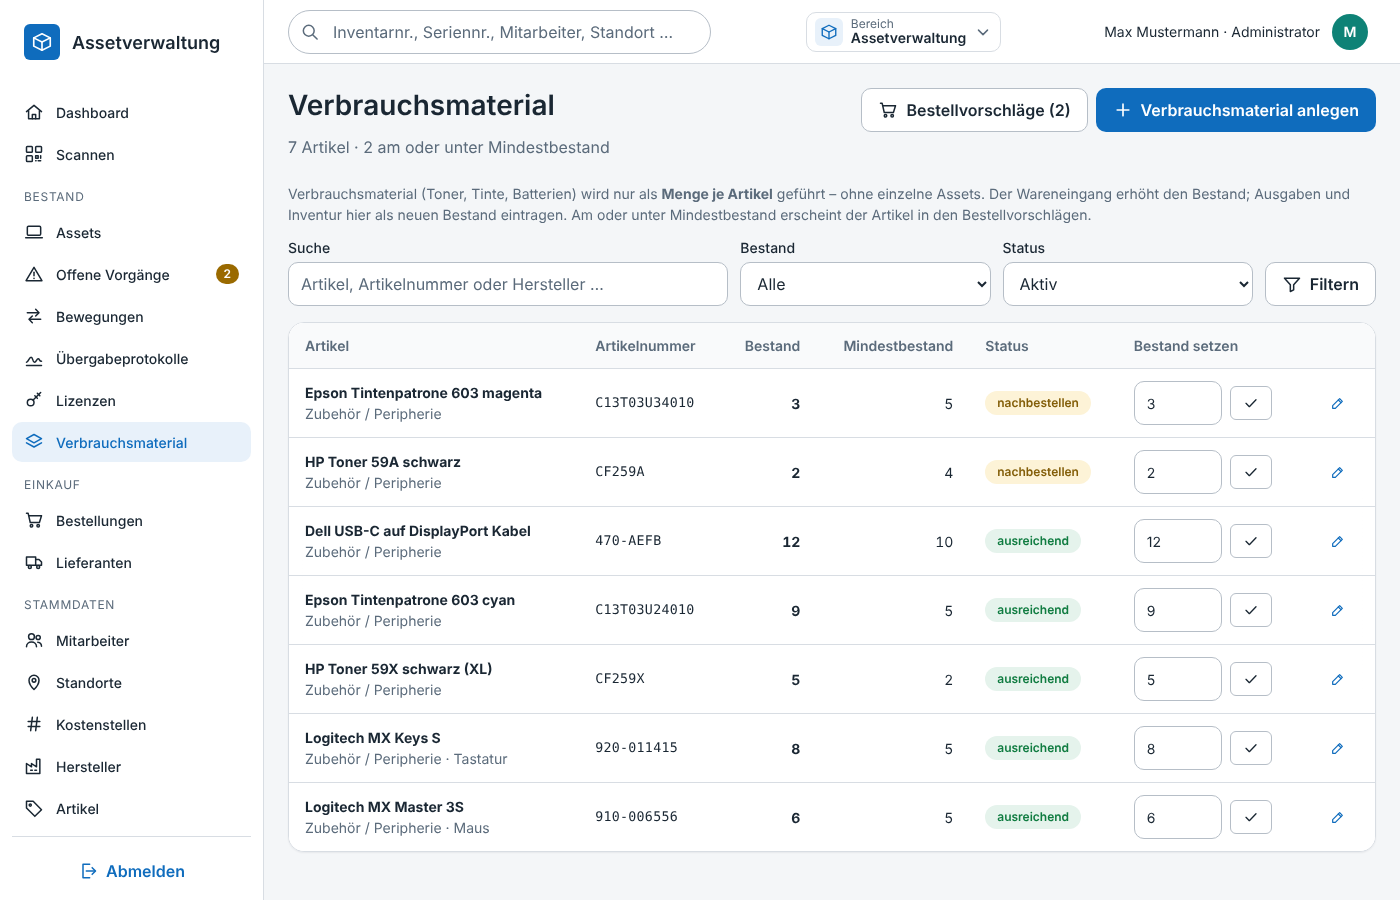
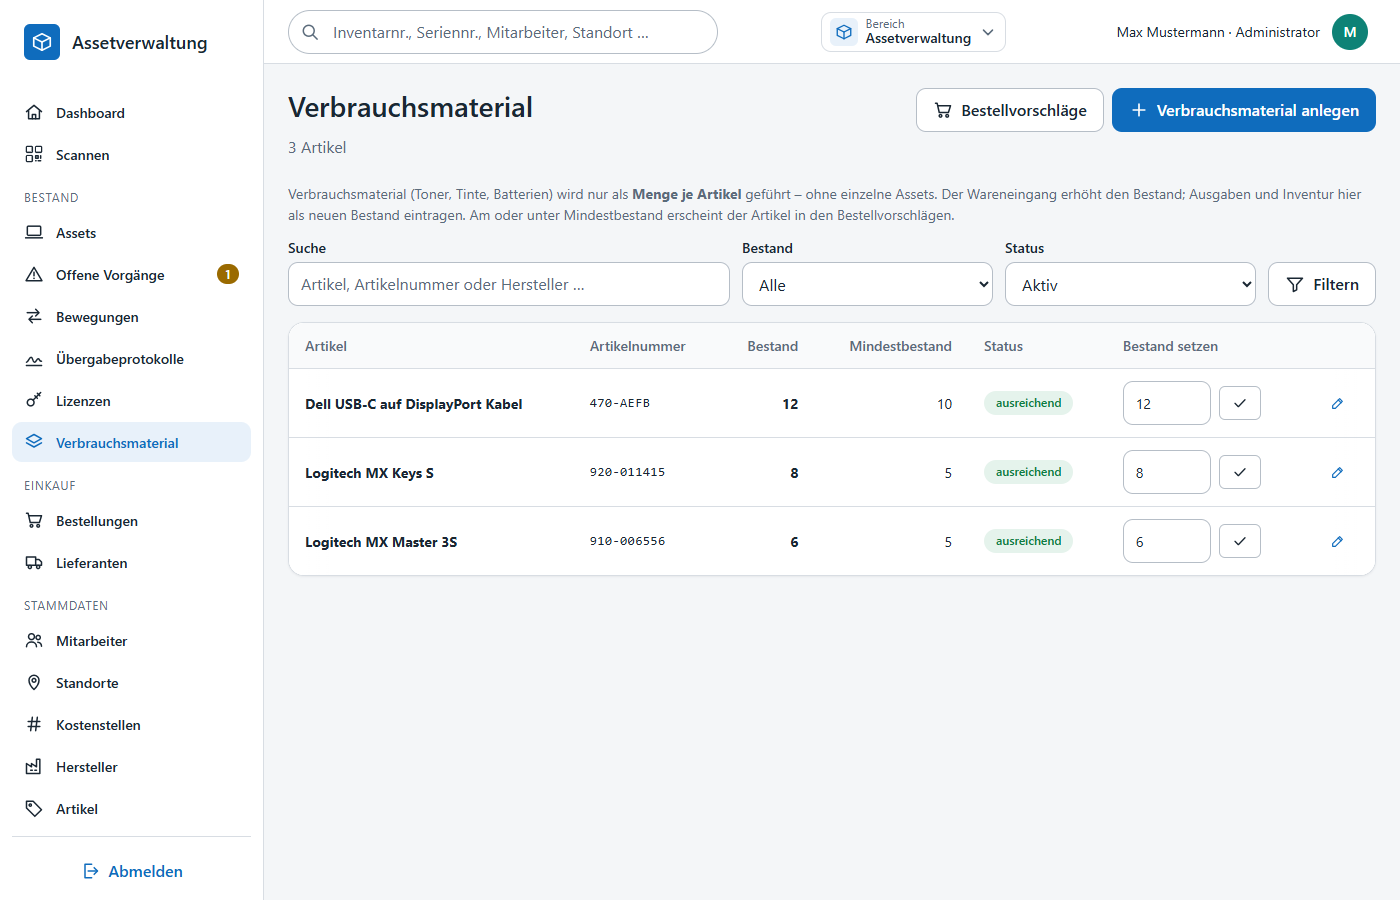
Verbrauchsmaterial: Assettyp und Kategorie optional
Verbrauchsmaterial hat keinen Assettyp (PC/NET/...). Bisher musste beim Anlegen
dennoch einer gewaehlt werden; das Feld war nicht abschaltbar.

- Migration 049: articles.asset_type_id wird NULL-faehig, bestehende
  Verbrauchsartikel werden von Typ und Kategorie bereinigt.
- ArticleService::validate prueft den Typ nur noch fuer Nicht-Verbrauchsmaterial
  und verwirft Typ/Kategorie bei is_consumable = 1; Artikel-Repository nutzt
  LEFT JOIN und liefert im Asset-Picker nur noch Nicht-Verbrauchsmaterial.
- Formular deaktiviert Assettyp und Kategorie inklusive required-Markierung,
  sobald "Verbrauchsmaterial" gesetzt ist oder das Formular ueber
  /articles/new?is_consumable=1 geoeffnet wurde (public/js/article-form.js).
- Bestellungen, Import, Assetpruefung und Darstellung (Artikelliste,
  Bestelldetail, Verbrauchsmaterial-Liste) sind null-sicher.
- Demo-Seed legt Tastatur, Maus und Kabel als Verbrauchsmaterial ohne Typ an.
- Doku (einkauf, assets, datenmodell, agentsindex) und Screenshots aktualisiert.
- Zwei Integrationstests fuer Verbrauchsmaterial mit und ohne Assettyp.

Tests: php tests/run.php -> 725/725 bestanden (Docker-Stack);
php -l ueber alle PHP-Dateien ohne Fehler.

diff --git a/klinq/public/js/article-form.js b/klinq/public/js/article-form.js
@@ -1,0 +1,32 @@
+/* Artikel-Formular: Verbrauchsmaterial hat keinen Assettyp (und damit keine Kategorie) */
+(function () {
+    "use strict";
+    const toggle = document.querySelector("[data-consumable-toggle]");
+    const typeSelect = document.querySelector("[data-consumable-type]");
+    if (!toggle || !typeSelect) { return; }
+    const categorySelect = document.querySelector("[data-consumable-category]");
+    const hint = document.querySelector("[data-consumable-hint]");
+    const requiredMarker = document.querySelector("[data-consumable-required]");
+
+    function apply() {
+        const consumable = toggle.checked;
+        typeSelect.disabled = consumable;
+        typeSelect.required = !consumable;
+        if (consumable) {
+            typeSelect.value = "";
+            if (categorySelect) {
+                categorySelect.value = "";
+                categorySelect.disabled = true;
+            }
+        } else if (categorySelect) {
+            categorySelect.disabled = false;
+        }
+        if (hint) { hint.hidden = !consumable; }
+        if (requiredMarker) { requiredMarker.hidden = consumable; }
+        // Kategorieoptionen an den (ggf. geleerten) Assettyp anpassen
+        typeSelect.dispatchEvent(new Event("change"));
+    }
+
+    toggle.addEventListener("change", apply);
+    apply();
+})();

diff --git a/klinq/resources/views/articles/form.php b/klinq/resources/views/articles/form.php
@@ -35,12 +35,13 @@ $selectedType = form_value($row, 'asset_type_id');
                 <?= field_error('manufacturer_id') ?>
             </div>
             <div class="form-group">
-                <label for="f-type">Assettyp *</label>
-                <select id="f-type" name="asset_type_id" required data-category-filter>
+                <label for="f-type">Assettyp <span class="required" data-consumable-required>*</span></label>
+                <select id="f-type" name="asset_type_id" required data-category-filter data-consumable-type>
                     <option value="">Bitte wählen</option>
                     <?php foreach ($assetTypes as $t): ?><option value="<?= (int) $t['id'] ?>"<?= selected($selectedType, $t['id']) ?>><?= e(type_label($t)) ?></option><?php endforeach; ?>
                 </select>
                 <?= field_error('asset_type_id') ?>
+                <span class="form-hint" data-consumable-hint hidden>Verbrauchsmaterial gehört zu keinem Assettyp; Typ und Kategorie entfallen.</span>
             </div>
         </div>
         <div class="form-row">
@@ -58,7 +59,7 @@ $selectedType = form_value($row, 'asset_type_id');
         </div>
         <div class="form-group">
             <label for="f-category">Kategorie</label>
-            <select id="f-category" name="asset_category_id">
+            <select id="f-category" name="asset_category_id" data-consumable-category>
                 <option value="">Keine</option>
                 <?php foreach ($categories as $cat): ?><option value="<?= (int) $cat['id'] ?>" data-type="<?= (int) $cat['asset_type_id'] ?>"<?= selected(form_value($row, 'asset_category_id'), $cat['id']) ?>><?= e($cat['name']) ?></option><?php endforeach; ?>
             </select>
@@ -72,7 +73,7 @@ $selectedType = form_value($row, 'asset_type_id');
         <label class="checkbox-field"><input type="checkbox" name="is_active" value="1"<?= form_checked($row, 'is_active') ?>> <span>Aktiv</span></label>
         <label class="checkbox-field"><input type="checkbox" name="is_handover_relevant" value="1"<?= form_checked($row, 'is_handover_relevant', false) ?>> <span>Relevant für Übergabeprotokoll</span></label>
         <span class="form-hint">Assets dieses Artikels erscheinen im Übergabeprotokoll des Mitarbeiters (z. B. Notebook, Smartphone – nicht Kabel oder Verbrauchsmaterial).</span>
-        <label class="checkbox-field mt-3"><input type="checkbox" name="is_consumable" value="1"<?= form_checked($row, 'is_consumable', $isNew && ($_GET['is_consumable'] ?? '') === '1') ?>> <span>Verbrauchsmaterial</span></label>
+        <label class="checkbox-field mt-3"><input type="checkbox" name="is_consumable" value="1" data-consumable-toggle<?= form_checked($row, 'is_consumable', $isNew && ($_GET['is_consumable'] ?? '') === '1') ?>> <span>Verbrauchsmaterial</span></label>
         <span class="form-hint">Für Material, das nur als Menge geführt wird (z. B. Toner, Tinte, Batterien): Es entstehen keine einzelnen Assets; der Wareneingang erhöht den Bestand. Übersicht unter <a href="/consumables">Bestand → Verbrauchsmaterial</a>.</span>
         <div class="form-row">
             <div class="form-group"><label for="f-min-stock">Mindestbestand</label><input id="f-min-stock" type="number" name="minimum_stock" min="0" value="<?= e(form_value($row, 'minimum_stock')) ?>"><span class="form-hint">Bei Unterschreitung wird ein Bestellvorschlag angezeigt.</span></div>
@@ -84,4 +85,4 @@ $selectedType = form_value($row, 'asset_type_id');
         </div>
     </form>
 </div>
-<?php $innerContent = ob_get_clean(); $scripts = ['/js/category-filter.js', '/js/duplicate-check.js']; include __DIR__ . '/../partials/app_layout.php'; ?>
+<?php $innerContent = ob_get_clean(); $scripts = ['/js/category-filter.js', '/js/duplicate-check.js', '/js/article-form.js']; include __DIR__ . '/../partials/app_layout.php'; ?>

diff --git a/klinq/app/Repositories/ArticleRepository.php b/klinq/app/Repositories/ArticleRepository.php
@@ -11,7 +11,7 @@ final class ArticleRepository extends BaseRepository
                                    (SELECT COUNT(*) FROM assets s WHERE s.article_id = a.id) AS asset_count
                             FROM articles a
                             JOIN manufacturers m ON m.id = a.manufacturer_id
-                            JOIN asset_types t ON t.id = a.asset_type_id
+                            LEFT JOIN asset_types t ON t.id = a.asset_type_id
                             LEFT JOIN asset_categories c ON c.id = a.asset_category_id';
 
     /** @return array<string,mixed>|null */
@@ -54,7 +54,8 @@ final class ArticleRepository extends BaseRepository
     }
 
     /**
-     * Autovervollständigung für das Asset-Formular: nur aktive Artikel, optional auf einen Assettyp beschränkt.
+     * Autovervollständigung für das Asset-Formular: nur aktive Artikel mit Assettyp,
+     * optional auf einen Assettyp beschränkt. Verbrauchsmaterial erzeugt keine Assets.
      * @return array<int,array<string,mixed>>
      */
     public function searchForPicker(string $term, ?int $assetTypeId = null, int $limit = 15): array
@@ -65,7 +66,7 @@ final class ArticleRepository extends BaseRepository
                 JOIN manufacturers m ON m.id = a.manufacturer_id
                 JOIN asset_types t ON t.id = a.asset_type_id
                 LEFT JOIN asset_categories c ON c.id = a.asset_category_id
-                WHERE a.is_active = 1';
+                WHERE a.is_active = 1 AND a.is_consumable = 0';
         $params = [];
         if ($term !== '') {
             $sql .= ' AND (a.name LIKE :q OR a.article_number LIKE :q OR m.name LIKE :q OR CONCAT(m.name, \' \', a.name) LIKE :q)';
@@ -170,7 +171,8 @@ final class ArticleRepository extends BaseRepository
     }
 
     /**
-     * Verbrauchsmaterial-Übersicht: Verbrauchsartikel mit Bestand, Mindestbestand und Assettyp.
+     * Verbrauchsmaterial-Übersicht: Verbrauchsartikel mit Bestand und Mindestbestand
+     * (Verbrauchsmaterial hat keinen Assettyp).
      *
      * @param array<string,mixed> $filters q, below ('1' = nur am/unter Mindestbestand), active ('1'|'0'|'')
      * @return array<int,array<string,mixed>>
@@ -178,11 +180,9 @@ final class ArticleRepository extends BaseRepository
     public function consumables(array $filters): array
     {
         $sql = 'SELECT a.id, a.name, a.article_number, a.stock_quantity, a.minimum_stock, a.is_active,
-                m.name AS manufacturer_name, t.name AS asset_type_name, c.name AS category_name
+                m.name AS manufacturer_name
             FROM articles a
             JOIN manufacturers m ON m.id = a.manufacturer_id
-            JOIN asset_types t ON t.id = a.asset_type_id
-            LEFT JOIN asset_categories c ON c.id = a.asset_category_id
             WHERE a.is_consumable = 1';
         $params = [];
         $active = (string) ($filters['active'] ?? '1');

diff --git a/klinq/bin/seed-demo.php b/klinq/bin/seed-demo.php
@@ -143,7 +143,7 @@ try {
     // -------------------------------------------------------------------------
     // 5. Artikel
     // -------------------------------------------------------------------------
-    $art = static function (int $mfrId, int $typeId, ?int $catId, string $name, ?string $number, ?string $desc, bool $handover, bool $consumable = false, ?int $min = null, int $stock = 0) use ($pdo): int {
+    $art = static function (int $mfrId, ?int $typeId, ?int $catId, string $name, ?string $number, ?string $desc, bool $handover, bool $consumable = false, ?int $min = null, int $stock = 0) use ($pdo): int {
         return ins(
             $pdo,
             'INSERT INTO articles (manufacturer_id, asset_type_id, asset_category_id, name, normalized_name, phonetic_key, article_number, description, is_handover_relevant, is_consumable, minimum_stock, stock_quantity, is_active)
@@ -168,9 +168,9 @@ try {
     $artDock = $art($mDell, $typeZub, $catDock, 'WD22TB4 Dockingstation', 'WD22TB4', 'Thunderbolt 4 Dock', true);
     $artDrucker = $art($mHP, $typeZub, $catDrucker, 'LaserJet Pro 4003dn', '2Z629A', 'Netzwerkdrucker', false);
     $artHeadset = $art($mLogitech, $typeZub, $catHeadset, 'Zone Wireless 2', '981-001267', 'Headset', false);
-    $artTastatur = $art($mLogitech, $typeZub, $catTastatur, 'MX Keys S', '920-011415', 'Tastatur', false, true, 5, 8);
-    $artMaus = $art($mLogitech, $typeZub, $catMaus, 'MX Master 3S', '910-006556', 'Maus', false, true, 5, 6);
-    $artKabel = $art($mDell, $typeZub, null, 'USB-C auf DisplayPort Kabel', '470-AEFB', 'Verbrauchsmaterial', false, true, 10, 12);
+    $artTastatur = $art($mLogitech, null, null, 'MX Keys S', '920-011415', 'Tastatur', false, true, 5, 8);
+    $artMaus = $art($mLogitech, null, null, 'MX Master 3S', '910-006556', 'Maus', false, true, 5, 6);
+    $artKabel = $art($mDell, null, null, 'USB-C auf DisplayPort Kabel', '470-AEFB', 'Verbrauchsmaterial', false, true, 10, 12);
 
     // -------------------------------------------------------------------------
     // 6. Mitarbeiter
@@ -301,8 +301,8 @@ try {
     $po3i1 = $poItem($po3, 1, $artMonitor, $typeZub, 'Dell UltraSharp U2723QE', 6, 0, '559.00', true);
 
     $po4 = $po('BEST-2024-0004', $supIngram, 'draft', '2024-09-18', null, $ccIT, 'Entwurf – Tastaturen & Mäuse');
-    $po4i1 = $poItem($po4, 1, $artTastatur, $typeZub, 'Logitech MX Keys S', 4, 0, '109.00', false);
-    $po4i2 = $poItem($po4, 2, $artMaus, $typeZub, 'Logitech MX Master 3S', 4, 0, '99.00', false);
+    $po4i1 = $poItem($po4, 1, $artTastatur, null, 'Logitech MX Keys S', 4, 0, '109.00', false);
+    $po4i2 = $poItem($po4, 2, $artMaus, null, 'Logitech MX Master 3S', 4, 0, '99.00', false);
 
     // -------------------------------------------------------------------------
     // 10. Assets

diff --git a/klinq/app/Services/ArticleService.php b/klinq/app/Services/ArticleService.php
@@ -144,7 +144,7 @@ final class ArticleService
     {
         $data = (new Validator($input))
             ->id('manufacturer_id', 'Hersteller', true)
-            ->id('asset_type_id', 'Assettyp', true)
+            ->id('asset_type_id', 'Assettyp')
             ->id('asset_category_id', 'Kategorie')
             ->string('name', 'Bezeichnung', true, 200)
             ->string('article_number', 'Artikelnummer', false, 100)
@@ -159,17 +159,24 @@ final class ArticleService
         if ($this->manufacturers->find((int) $data['manufacturer_id']) === null) {
             throw ValidationException::single('manufacturer_id', 'Hersteller nicht gefunden. Bitte zuerst den Hersteller anlegen.');
         }
-        if ($this->assetTypes->find((int) $data['asset_type_id']) === null) {
-            throw ValidationException::single('asset_type_id', 'Assettyp nicht gefunden.');
-        }
-        if ($data['asset_category_id'] !== null) {
-            $category = $this->assetTypes->findCategory((int) $data['asset_category_id']);
-            if ($category === null || (int) $category['asset_type_id'] !== (int) $data['asset_type_id']) {
-                throw ValidationException::single('asset_category_id', 'Die Kategorie passt nicht zum gewählten Assettyp.');
+        if ((int) $data['is_consumable'] === 1) {
+            // Verbrauchsmaterial wird als Menge geführt: kein Assettyp, damit auch keine Kategorie.
+            $data['asset_type_id'] = null;
+            $data['asset_category_id'] = null;
+        } else {
+            if ($data['asset_type_id'] === null) {
+                throw ValidationException::single('asset_type_id', 'Assettyp ist erforderlich.');
             }
-        }
-        // Kein Verbrauchsmaterial (mehr): Mindestbestand und Bestand unabhängig von der Kategorie zurücksetzen
-        if ((int) $data['is_consumable'] !== 1) {
+            if ($this->assetTypes->find((int) $data['asset_type_id']) === null) {
+                throw ValidationException::single('asset_type_id', 'Assettyp nicht gefunden.');
+            }
+            if ($data['asset_category_id'] !== null) {
+                $category = $this->assetTypes->findCategory((int) $data['asset_category_id']);
+                if ($category === null || (int) $category['asset_type_id'] !== (int) $data['asset_type_id']) {
+                    throw ValidationException::single('asset_category_id', 'Die Kategorie passt nicht zum gewählten Assettyp.');
+                }
+            }
+            // Kein Verbrauchsmaterial: Mindestbestand und Bestand unabhängig von der Kategorie zurücksetzen
             $data['minimum_stock'] = null;
             $data['stock_quantity'] = 0;
         }

diff --git a/klinq/tests/Integration/MasterDataIntegrationTest.php b/klinq/tests/Integration/MasterDataIntegrationTest.php
@@ -116,6 +116,54 @@ final class MasterDataIntegrationTest extends DatabaseTestCase
         });
     }
 
+    public function testConsumableArticleNeedsNoAssetType(): void
+    {
+        $svc = $this->c->get(ArticleService::class);
+        $repo = $this->c->get(ArticleRepository::class);
+        $manufacturerId = $this->c->get(ManufacturerService::class)->create(['name' => 'Ohne-Typ GmbH', 'is_active' => '1'], true);
+
+        $id = $svc->create([
+            'manufacturer_id' => (string) $manufacturerId,
+            'name' => 'Toner ohne Typ 0815',
+            'is_active' => '1',
+            'is_consumable' => '1',
+            'minimum_stock' => '3',
+            'stock_quantity' => '7',
+        ], true);
+        $created = $repo->find($id);
+        $this->assertNull($created['asset_type_id']);
+        $this->assertNull($created['asset_category_id']);
+        $this->assertSame(3, (int) $created['minimum_stock']);
+
+        // Ein trotzdem übermittelter Assettyp wird bei Verbrauchsmaterial verworfen
+        $withType = $svc->create([
+            'manufacturer_id' => (string) $manufacturerId,
+            'asset_type_id' => (string) $this->c->get(AssetTypeRepository::class)->findByCode('ZUB')['id'],
+            'name' => 'Toner ohne Typ 0816',
+            'is_active' => '1',
+            'is_consumable' => '1',
+            'stock_quantity' => '0',
+        ], true);
+        $this->assertNull($repo->find($withType)['asset_type_id']);
+
+        // Verbrauchsmaterial erzeugt keine Assets und erscheint deshalb nicht im Asset-Picker
+        $this->assertSame([], $repo->searchForPicker('Toner ohne Typ'));
+        $this->assertContains($id, array_map('intval', array_column($repo->consumables(['q' => 'Toner ohne Typ']), 'id')));
+    }
+
+    public function testNonConsumableArticleStillRequiresAssetType(): void
+    {
+        $svc = $this->c->get(ArticleService::class);
+        $manufacturerId = $this->c->get(ManufacturerService::class)->create(['name' => 'Mit-Typ GmbH', 'is_active' => '1'], true);
+
+        $this->assertThrows(ValidationException::class, fn (): int => $svc->create([
+            'manufacturer_id' => (string) $manufacturerId,
+            'name' => 'Notebook ohne Typ 0815',
+            'is_active' => '1',
+            'stock_quantity' => '0',
+        ], true), 'Assettyp');
+    }
+
     public function testClearingConsumableResetsStockForArticleWithoutCategory(): void
     {
         $svc = $this->c->get(ArticleService::class);

diff --git a/klinq/app/Services/AssetService.php b/klinq/app/Services/AssetService.php
@@ -237,9 +237,15 @@ final class AssetService
         if ((int) $article['is_active'] !== 1 && !$keepsArticle) {
             throw ValidationException::single('article_id', 'Der Artikel „' . $article['name'] . '“ ist inaktiv und kann nicht mehr verwendet werden.');
         }
-        $data['asset_type_id'] ??= (int) $article['asset_type_id'];
-        if ((int) $article['asset_type_id'] !== (int) $data['asset_type_id']) {
-            throw ValidationException::single('article_id', 'Der Artikel gehört zum Assettyp „' . $article['asset_type_name'] . '“ und passt nicht zum gewählten Assettyp.');
+        $articleIsConsumable = (int) ($article['is_consumable'] ?? 0) === 1;
+        if ($articleIsConsumable && !$keepsArticle) {
+            throw ValidationException::single('article_id', 'Der Artikel „' . $article['name'] . '“ ist Verbrauchsmaterial und kann keine Assets erzeugen.');
+        }
+        if (!$articleIsConsumable) {
+            $data['asset_type_id'] ??= (int) $article['asset_type_id'];
+            if ((int) $article['asset_type_id'] !== (int) $data['asset_type_id']) {
+                throw ValidationException::single('article_id', 'Der Artikel gehört zum Assettyp „' . $article['asset_type_name'] . '“ und passt nicht zum gewählten Assettyp.');
+            }
         }
         $data['manufacturer_id'] = (int) $article['manufacturer_id'];
         $data['asset_category_id'] ??= $article['asset_category_id'] !== null ? (int) $article['asset_category_id'] : null;

diff --git a/klinq/resources/views/orders/show.php b/klinq/resources/views/orders/show.php
@@ -115,7 +115,7 @@ $showItemForm = $editable && ($editing !== null || $old !== null || $items === [
                     <label for="i-article">Artikel</label>
                     <select id="i-article" name="article_id" data-article-select>
                         <option value="">– frei (nur für Positionen ohne Asset) –</option>
-                        <?php foreach ($articles as $a): ?><option value="<?= (int) $a['id'] ?>" data-type="<?= (int) $a['asset_type_id'] ?>" data-label="<?= e($a['manufacturer_name'] . ' ' . $a['name']) ?>"<?= selected($itemVal('article_id'), $a['id']) ?>><?= e($a['manufacturer_name']) ?> <?= e($a['name']) ?><?= $a['article_number'] ? ' · ' . e($a['article_number']) : '' ?></option><?php endforeach; ?>
+                        <?php foreach ($articles as $a): ?><option value="<?= (int) $a['id'] ?>" data-type="<?= $a['asset_type_id'] !== null ? (int) $a['asset_type_id'] : '' ?>" data-label="<?= e($a['manufacturer_name'] . ' ' . $a['name']) ?>"<?= selected($itemVal('article_id'), $a['id']) ?>><?= e($a['manufacturer_name']) ?> <?= e($a['name']) ?><?= $a['article_number'] ? ' · ' . e($a['article_number']) : '' ?></option><?php endforeach; ?>
                     </select>
                     <p class="form-hint">Positionen, die Assets erzeugen, benötigen einen Stammartikel; Assettyp, Hersteller und Bezeichnung werden übernommen.</p>
                     <?= field_error('article_id') ?>

diff --git a/klinq/resources/views/articles/index.php b/klinq/resources/views/articles/index.php
@@ -43,7 +43,7 @@ ob_start(); ?>
                 <td><a href="/manufacturers/<?= (int) $r['manufacturer_id'] ?>"><?= e($r['manufacturer_name']) ?></a></td>
                 <td><strong><?= e($r['name']) ?></strong></td>
                 <td class="mono"><?= e($r['article_number'] ?? '–') ?></td>
-                <td><?= e($r['asset_type_name']) ?></td>
+                <td><?= $r['asset_type_name'] !== null ? e($r['asset_type_name']) : '<span class="text-muted">–</span>' ?></td>
                 <td><?= e($r['category_name'] ?? '–') ?></td>
                 <td><?= (int) ($r['is_handover_relevant'] ?? 0) ? badge('Übergabe', 'info') : '<span class="text-muted">–</span>' ?></td>
                 <td><?= (int) ($r['is_consumable'] ?? 0) ? badge((int) $r['stock_quantity'] . ' / ' . (int) $r['minimum_stock'], (int) $r['stock_quantity'] <= (int) $r['minimum_stock'] ? 'warning' : 'info') : '<span class="text-muted">–</span>' ?></td>

diff --git a/klinq/app/Services/ImportService.php b/klinq/app/Services/ImportService.php
@@ -327,7 +327,9 @@ final class ImportService
                 $add('error', 'article', 'Artikel „' . $article['name'] . '“ ist inaktiv.');
             } else {
                 $input['article_id'] = (string) $article['id'];
-                if ($type !== null && (int) $article['asset_type_id'] !== (int) $type['id']) {
+                if ((int) ($article['is_consumable'] ?? 0) === 1) {
+                    $add('error', 'article', 'Artikel „' . $article['name'] . '“ ist Verbrauchsmaterial und kann keine Assets erzeugen.');
+                } elseif ($type !== null && (int) $article['asset_type_id'] !== (int) $type['id']) {
                     $add('error', 'article', 'Artikel „' . $article['name'] . '“ gehört zum Assettyp ' . $article['asset_type_name'] . ', nicht zu ' . $type['name'] . '.');
                 }
             }

diff --git a/klinq/resources/views/consumables/index.php b/klinq/resources/views/consumables/index.php
@@ -28,7 +28,7 @@ include __DIR__ . '/../partials/filter_bar.php';
         <tbody>
         <?php foreach ($rows as $r): ?>
             <tr class="<?= (int) $r['is_active'] ? '' : 'is-muted' ?>">
-                <td><strong><?= e($r['manufacturer_name'] . ' ' . $r['name']) ?></strong><br><span class="text-muted text-sm"><?= e(implode(' · ', array_filter([$r['asset_type_name'], $r['category_name']]))) ?></span></td>
+                <td><strong><?= e($r['manufacturer_name'] . ' ' . $r['name']) ?></strong></td>
                 <td class="mono"><?= e($r['article_number'] ?? '–') ?></td>
                 <td class="num"><strong><?= (int) $r['stock_quantity'] ?></strong></td>
                 <td class="num"><?= $r['minimum_stock'] !== null ? (int) $r['minimum_stock'] : '–' ?></td>

diff --git a/klinq/app/Controllers/ArticleController.php b/klinq/app/Controllers/ArticleController.php
@@ -126,7 +126,7 @@ final class ArticleController extends CrudController
     {
         return [
             'manufacturers' => $this->manufacturers->activeForSelect(),
-            'assetTypes' => $this->assetTypes->selectable($row !== null ? (int) $row['asset_type_id'] : null),
+            'assetTypes' => $this->assetTypes->selectable($row !== null && $row['asset_type_id'] !== null ? (int) $row['asset_type_id'] : null),
             'categories' => $this->assetTypes->selectableCategories($row !== null && $row['asset_category_id'] !== null ? (int) $row['asset_category_id'] : null),
         ];
     }
